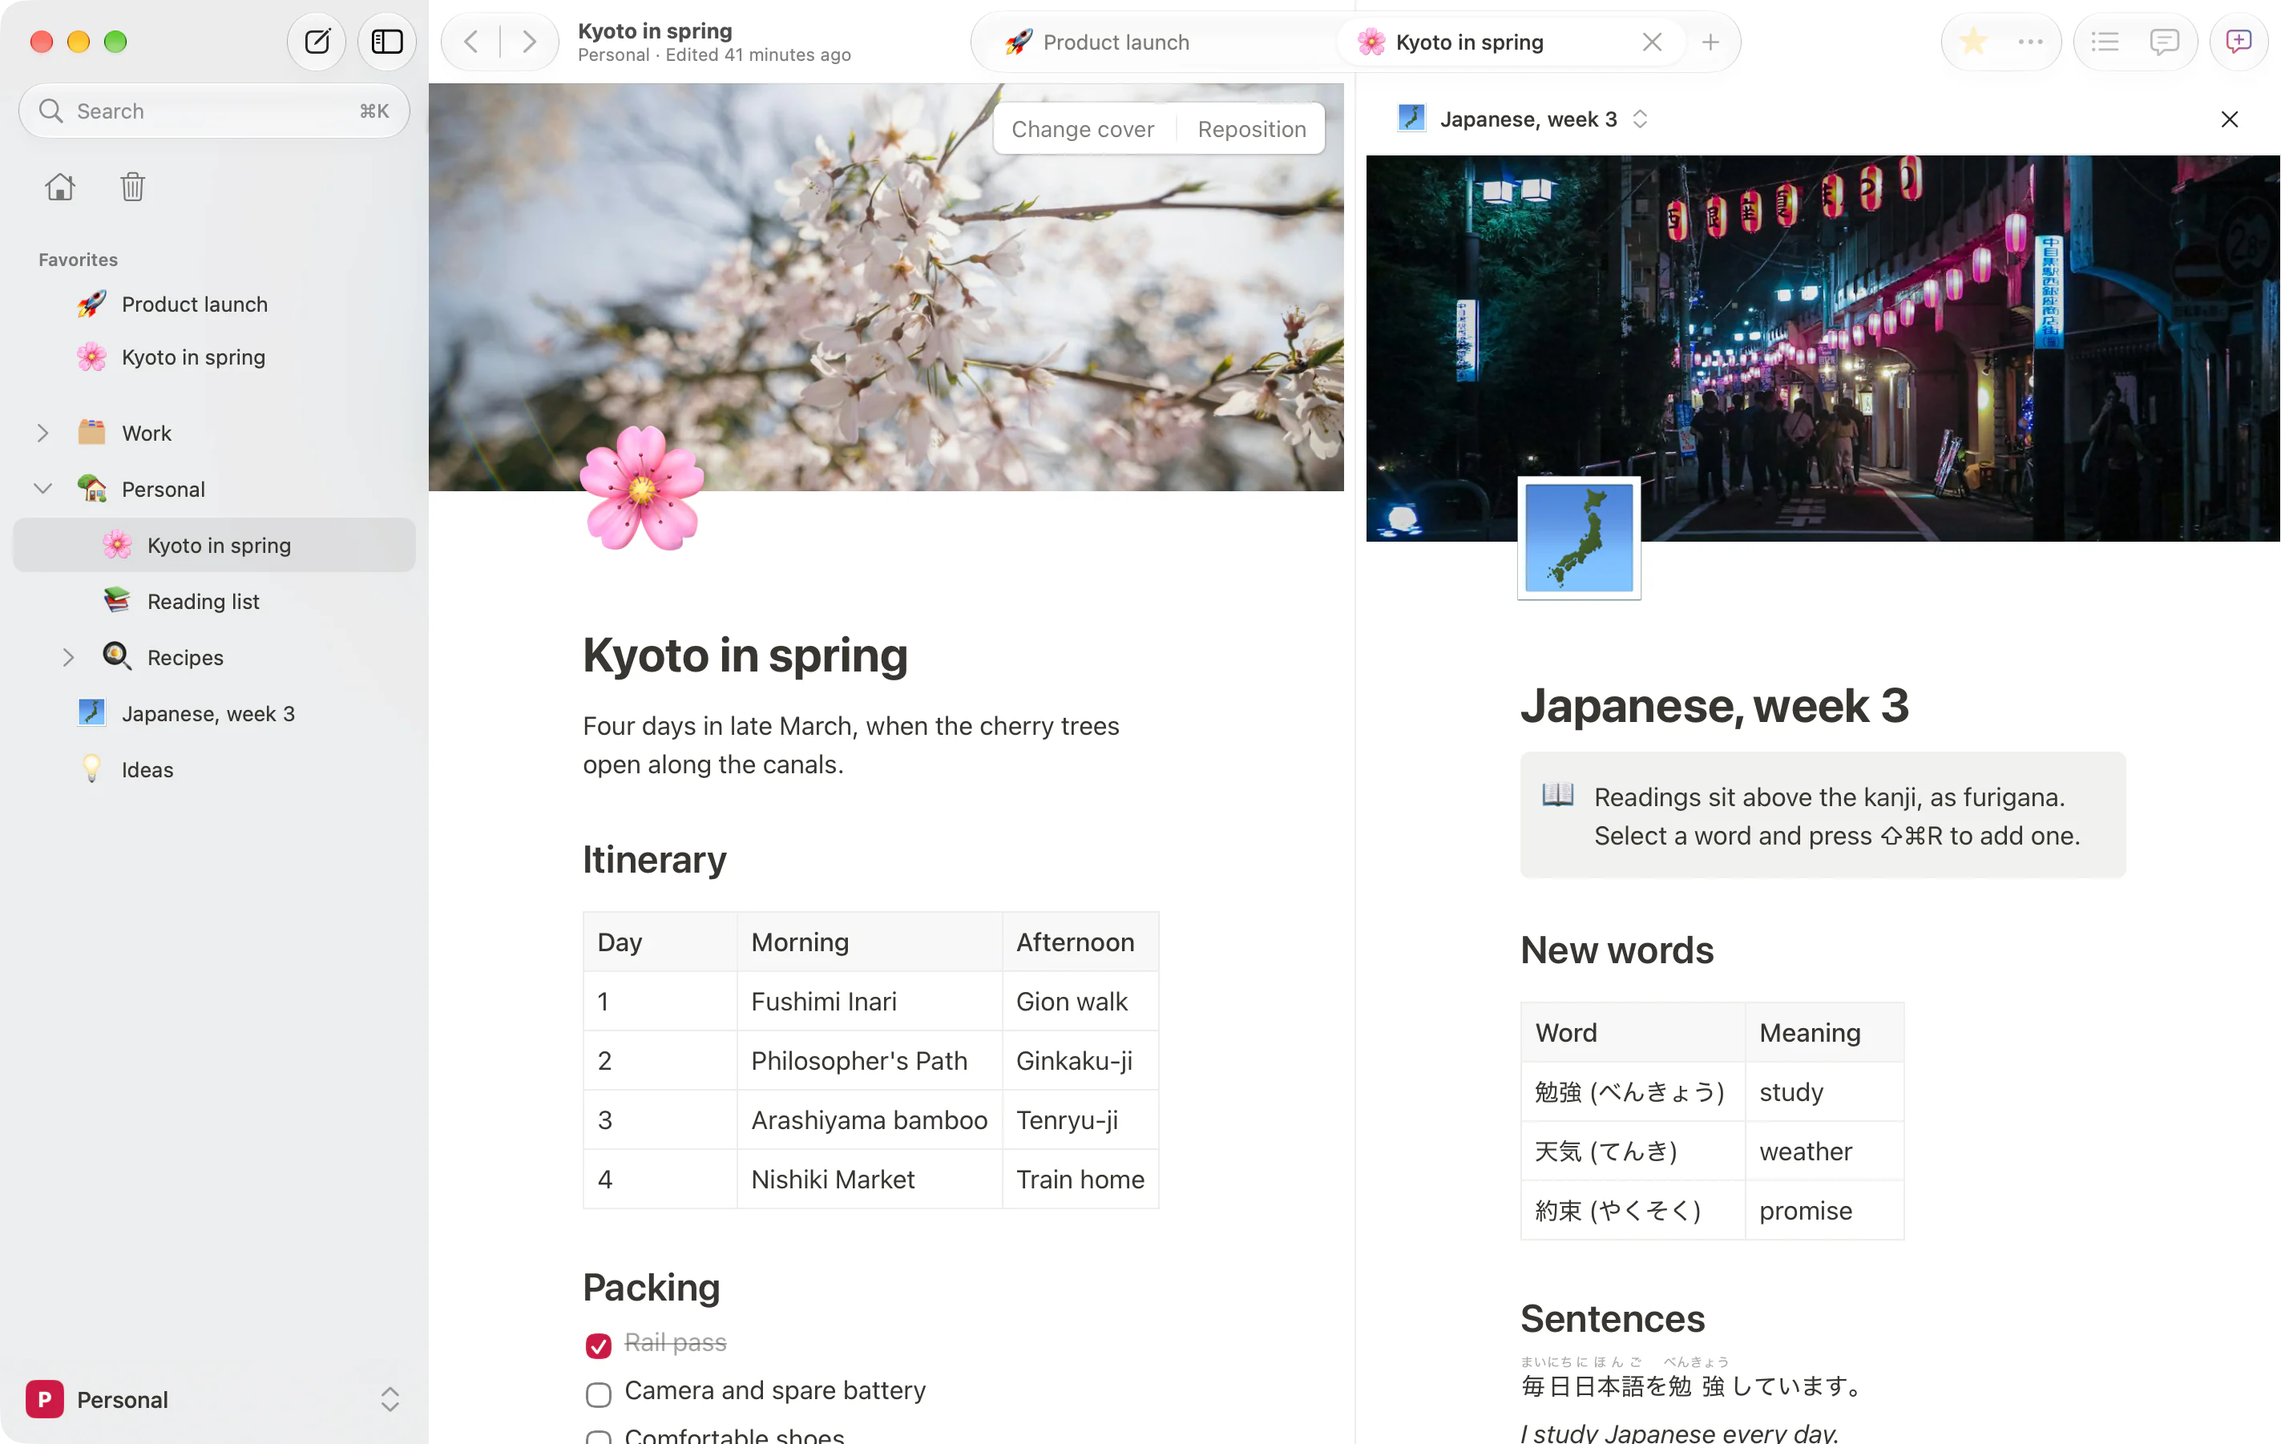
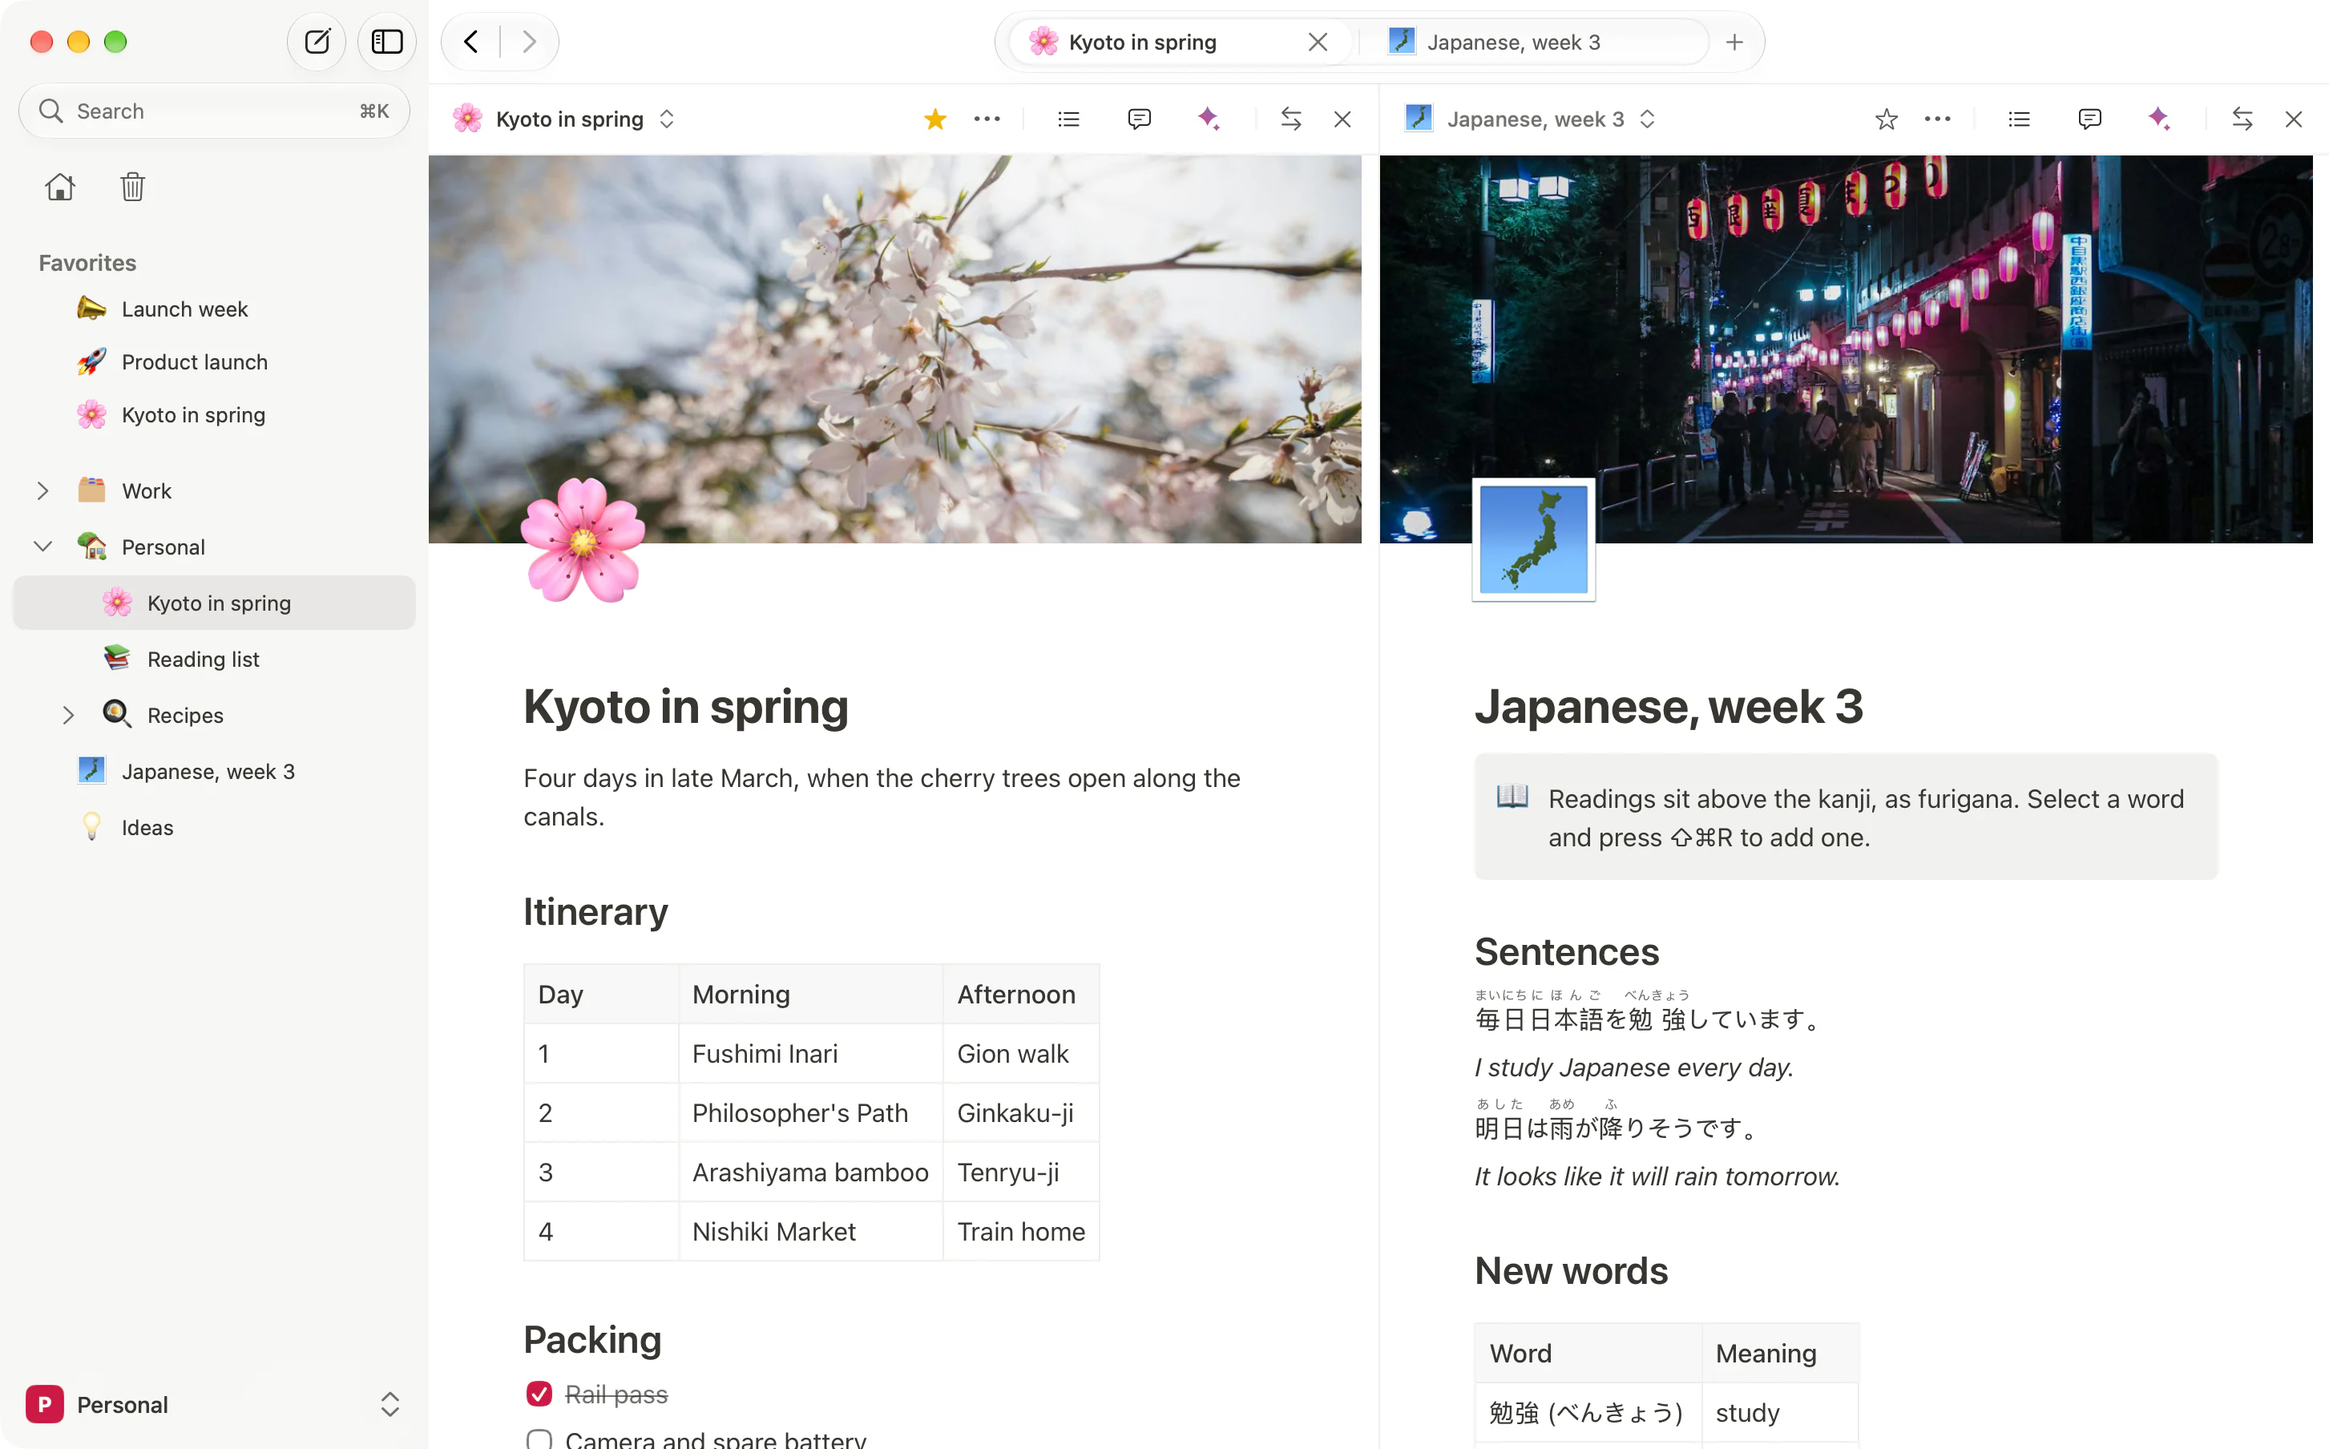
Website: split view opens as the page scrolls — a page dragged from the sidebar to the window's edge, its place outlined, its pane sliding in; Duo and Split share scrollScene

diff --git a/apps/website/src/components/split-view.tsx b/apps/website/src/components/split-view.tsx
@@ -1,37 +1,84 @@
 import { row } from './row'
-import { Shot } from './shot'
+import { scrollScene } from './scroll-scene'
 
-/** Split view: two pages side by side, shown on the Mac. */
+/**
+ * Split view: two pages side by side, shown on the Mac — and how it is opened, as the page scrolls: a page dragged
+ * from the sidebar to the window's right edge, the place it will take outlined, its pane sliding in from that edge,
+ * then the page beside it settling into its half. Two captures of the same window (`mac-split-solo`, `mac-split`);
+ * `--p` from the scroll (`scrollScene`). Still — no script, Reduce Motion — it is the split window.
+ */
 export function SplitView() {
+  scrollScene('#split-view', '#split-view .split-stage')
+
   return (
-    <section id="split-view" class={`${row} grid-cols-1 lg:grid-cols-12`}>
-      <div class="cell bg-yellow flex flex-col justify-between gap-10 p-8 md:p-12 lg:col-span-4">
-        <h2 class="expanded text-[clamp(1.875rem,3.4vw,3rem)] leading-[1.05] font-[850] tracking-[-0.02em]">
-          Two pages side by side.
-        </h2>
-        <div class="space-y-4 text-lg leading-relaxed">
-          <p>
-            Drag a page from the sidebar to the edge of the window and it opens beside the one you
-            are writing in. Each side has its own editor.
-          </p>
-          <p>
-            Keep notes on one side and the source on the other, or a PDF from the page. Open the
-            same page twice to write in one half and read in the other.
-          </p>
+    <section id="split-view" class={`${row} split-scene grid-cols-1 lg:grid-cols-12`}>
+      <div class="cell bg-yellow split-text lg:col-span-4">
+        <div class="split-sticky flex flex-col justify-between gap-10 p-8 md:p-12">
+          <h2 class="expanded text-[clamp(1.875rem,3.4vw,3rem)] leading-[1.05] font-[850] tracking-[-0.02em]">
+            Two pages side by side.
+          </h2>
+          <div class="space-y-4 text-lg leading-relaxed">
+            <p>
+              Drag a page from the sidebar to the edge of the window and it opens beside the one you
+              are writing in. Each side has its own editor.
+            </p>
+            <p>
+              Keep notes on one side and the source on the other, or a PDF from the page. Open the
+              same page twice to write in one half and read in the other.
+            </p>
+          </div>
         </div>
       </div>
-      <figure class="cell m-0 flex flex-col gap-5 p-6 md:p-10 lg:col-span-8">
-        <Shot
-          name="mac-split"
-          alt="Hikki on Mac in split view: a page about a trip to Kyoto beside a Japanese lesson with furigana."
-          width={2846}
-          height={1802}
-          class="w-full rounded-[12px]"
-        />
-        <figcaption class="text-caption text-muted">
-          <strong class="text-ink">Split view on Mac.</strong> On iPad too.
-        </figcaption>
+      <figure class="cell split-figure m-0 lg:col-span-8">
+        <div class="split-sticky flex flex-col justify-center gap-5 p-6 md:p-10">
+          <div
+            class="split-stage"
+            data-still
+            role="img"
+            aria-label="Hikki on Mac: “Japanese, week 3” dragged from the sidebar to the window's right edge opens beside a page about a trip to Kyoto, in split view."
+          >
+            <Capture name="mac-split-solo" class="split-solo" />
+            <span class="split-zone" />
+            <div class="split-pane">
+              <Capture name="mac-split" />
+            </div>
+            <div class="split-final">
+              <Capture name="mac-split" />
+            </div>
+            <span class="split-chip">
+              <span aria-hidden="true">🗾</span> Japanese, week 3
+            </span>
+          </div>
+          <figcaption class="text-caption text-muted">
+            <strong class="text-ink">Split view on Mac.</strong> On iPad too.
+          </figcaption>
+        </div>
       </figure>
     </section>
+  )
+}
+
+/** One capture of the window in both appearances; the theme shows one. */
+function Capture(props: { name: string; class?: string }) {
+  const cls = `split-img ${props.class ?? ''}`
+  return (
+    <>
+      <img
+        src={`/shots/${props.name}.webp`}
+        alt=""
+        width={2906}
+        height={1808}
+        loading="lazy"
+        class={`${cls} only-light`}
+      />
+      <img
+        src={`/shots/${props.name}-dark.webp`}
+        alt=""
+        width={2906}
+        height={1808}
+        loading="lazy"
+        class={`${cls} only-dark`}
+      />
+    </>
   )
 }

diff --git a/apps/website/src/styles.css b/apps/website/src/styles.css
@@ -1314,6 +1314,102 @@
     width: 72%;
   }
 
+  /* Split view opening as the page scrolls (SplitView): `--p` 0 is one page, 1 two. The section is the scroll it
+     takes; both cells' content stays in view meanwhile. Positions are fractions of the capture: the sidebar's
+     "Japanese, week 3" row, the split's hairline at 59.19 %, the window toolbar's foot at 6 %. */
+  .split-scene[data-moving] .split-figure {
+    height: 240vh;
+  }
+  .split-scene[data-moving] .split-figure > .split-sticky {
+    position: sticky;
+    top: 0;
+    min-height: 100svh;
+  }
+  @media (width >= 64rem) {
+    .split-scene[data-moving] .split-text > .split-sticky {
+      position: sticky;
+      top: 0;
+      min-height: 100svh;
+    }
+  }
+  .split-stage {
+    --p: 1;
+    /* The phases: the drag, the outline, the pane sliding in, the page beside it settling. */
+    --drag: clamp(0, var(--p) / 0.35, 1);
+    --zone: calc(clamp(0, (var(--p) - 0.27) / 0.08, 1) * (1 - clamp(0, (var(--p) - 0.6) / 0.1, 1)));
+    --slide: clamp(0, (var(--p) - 0.35) / 0.35, 1);
+    --settle: clamp(0, (var(--p) - 0.76) / 0.07, 1);
+    position: relative;
+    overflow: hidden;
+    container-type: inline-size;
+    border: 4px solid var(--color-frame);
+    border-radius: 12px;
+    background: var(--color-paper);
+  }
+  .split-img {
+    display: block;
+    width: 100%;
+    height: auto;
+  }
+  .split-img.only-dark {
+    display: none;
+  }
+  :root[data-theme='dark'] .split-img.only-dark {
+    display: block;
+  }
+  :root[data-theme='dark'] .split-img.only-light {
+    display: none;
+  }
+  .split-pane,
+  .split-final {
+    position: absolute;
+    inset: 0;
+  }
+  /* The trailing pane alone, eased in from beyond the window's right edge (its own width away). */
+  .split-pane {
+    --s: calc(var(--slide) * var(--slide) * (3 - 2 * var(--slide)));
+    clip-path: inset(6% 0 0 59.19%);
+    transform: translateX(calc((1 - var(--s)) * 40.81%));
+    opacity: clamp(0, var(--slide) * 8, 1);
+  }
+  /* The whole split window: the leading page taking its half. */
+  .split-final {
+    opacity: var(--settle);
+  }
+  .split-zone {
+    position: absolute;
+    top: 6%;
+    right: 0.6%;
+    bottom: 1%;
+    left: 59.6%;
+    border: 0.3cqi solid var(--color-red);
+    border-radius: 0.6cqi;
+    background: color-mix(in srgb, var(--color-red) 8%, transparent);
+    opacity: var(--zone);
+  }
+  /* The page being dragged, as macOS draws a dragged row. */
+  .split-chip {
+    --d: calc(var(--drag) * var(--drag) * (3 - 2 * var(--drag)));
+    position: absolute;
+    left: calc(3% + var(--d) * 72%);
+    top: calc(51% - var(--d) * 10%);
+    display: flex;
+    align-items: center;
+    gap: 0.5em;
+    padding: 0.45em 0.8em;
+    border-radius: 0.5em;
+    background: rgb(255 255 255 / 0.94);
+    box-shadow:
+      0 0 0 1px rgb(0 0 0 / 0.08),
+      0 0.4em 1.2em rgb(0 0 0 / 0.18);
+    color: #1d1d1f;
+    font-size: 1.6cqi;
+    font-weight: 600;
+    white-space: nowrap;
+    opacity: calc(clamp(0, var(--p) / 0.04, 1) * (1 - clamp(0, (var(--p) - 0.36) / 0.06, 1)));
+    pointer-events: none;
+  }
+
   .button {
     display: inline-flex;
     align-items: center;

diff --git a/apps/website/src/components/duo-unfold.tsx b/apps/website/src/components/duo-unfold.tsx
@@ -1,52 +1,16 @@
-import { onCleanup, onMount } from 'solid-js'
-
 import { row } from './row'
+import { scrollScene } from './scroll-scene'
 
 /**
  * iPhone Duo opening as the page scrolls, like a book: folded, the outer screen (the iPhone layout); open, the inner
  * screen on its side (the iPad layout), twice the outer screen's size, its right half swinging out on the hinge in the
- * middle. The track's scroll sets `--p` (0 folded … 1 open) on the stage, and CSS turns that into the fold.
+ * middle — `--p` 0 folded … 1 open, from the scroll (`scrollScene`).
  *
  * Without the script, or with Reduce Motion, nothing moves: the stage shows the open phone with the folded one
  * beside it (`data-still`).
  */
 export function DuoUnfold() {
-  onMount(() => {
-    const track = document.querySelector<HTMLElement>('#duo .duo-track')
-    const stage = document.querySelector<HTMLElement>('#duo .duo-stage')
-    if (!track || !stage) return
-    const still = window.matchMedia('(prefers-reduced-motion: reduce)')
-    let frame = 0
-    const measure = () => {
-      frame = 0
-      const box = track.getBoundingClientRect()
-      const run = box.height - window.innerHeight
-      const raw = run > 0 ? -box.top / run : 1
-      // Held folded for the first stretch and open for the last, so each state can be looked at.
-      const p = Math.min(1, Math.max(0, (raw - 0.12) / 0.7))
-      stage.style.setProperty('--p', p.toFixed(4))
-    }
-    const schedule = () => {
-      if (!frame) frame = requestAnimationFrame(measure)
-    }
-    const apply = () => {
-      const moving = !still.matches
-      track.toggleAttribute('data-moving', moving)
-      stage.toggleAttribute('data-still', !moving)
-      if (moving) measure()
-      else stage.style.removeProperty('--p')
-    }
-    apply()
-    window.addEventListener('scroll', schedule, { passive: true })
-    window.addEventListener('resize', schedule)
-    still.addEventListener('change', apply)
-    onCleanup(() => {
-      cancelAnimationFrame(frame)
-      window.removeEventListener('scroll', schedule)
-      window.removeEventListener('resize', schedule)
-      still.removeEventListener('change', apply)
-    })
-  })
+  scrollScene('#duo .duo-track', '#duo .duo-stage')
 
   return (
     <section id="duo" class={`${row} grid-cols-1`}>

diff --git a/apps/website/src/components/scroll-scene.ts b/apps/website/src/components/scroll-scene.ts
@@ -1,0 +1,46 @@
+import { onCleanup, onMount } from 'solid-js'
+
+/**
+ * A scene that plays as the page scrolls: the track's scroll sets `--p` (0 … 1) on the stage, and CSS turns that into
+ * the motion. The first stretch holds the start and the last the end, so each can be looked at.
+ *
+ * With Reduce Motion nothing moves: the track loses `data-moving` (no extra scroll) and the stage gets `data-still`,
+ * which shows the end. Without the script the markup's own `data-still` does the same.
+ */
+export function scrollScene(trackSelector: string, stageSelector: string) {
+  onMount(() => {
+    const track = document.querySelector<HTMLElement>(trackSelector)
+    const stage = document.querySelector<HTMLElement>(stageSelector)
+    if (!track || !stage) return
+    const still = window.matchMedia('(prefers-reduced-motion: reduce)')
+    let frame = 0
+    const measure = () => {
+      frame = 0
+      const box = track.getBoundingClientRect()
+      const run = box.height - window.innerHeight
+      const raw = run > 0 ? -box.top / run : 1
+      const p = Math.min(1, Math.max(0, (raw - 0.12) / 0.7))
+      stage.style.setProperty('--p', p.toFixed(4))
+    }
+    const schedule = () => {
+      if (!frame) frame = requestAnimationFrame(measure)
+    }
+    const apply = () => {
+      const moving = !still.matches
+      track.toggleAttribute('data-moving', moving)
+      stage.toggleAttribute('data-still', !moving)
+      if (moving) measure()
+      else stage.style.removeProperty('--p')
+    }
+    apply()
+    window.addEventListener('scroll', schedule, { passive: true })
+    window.addEventListener('resize', schedule)
+    still.addEventListener('change', apply)
+    onCleanup(() => {
+      cancelAnimationFrame(frame)
+      window.removeEventListener('scroll', schedule)
+      window.removeEventListener('resize', schedule)
+      still.removeEventListener('change', apply)
+    })
+  })
+}

diff --git a/CLAUDE.md b/CLAUDE.md
@@ -188,9 +188,12 @@ apps/website/                      the site at hikki.yancey.app (TanStack Start 
                               own Mondrian palette — not the app's tokens): src/routes/, light/dark/system theme
                               (`data-theme`, THEME_SCRIPT in src/theme.ts runs before paint), screenshots in public/shots/ as WebP, each with a -dark twin (`Shot`), made by
                               `bun run shots <captures>` (sharp; crops in shots.json; public/og.jpg is the link-card JPEG);
-                              the iPhone Duo opens like a book as the page scrolls (src/components/duo-unfold.tsx: `--p`
-                              from the scroll, still under Reduce Motion) — its open screen (duo-open) is the Duo simulator's
-                              inner screen, `--display=3` once the device is unfolded by hand (simctl can't unfold it);
+                              scroll scenes (src/components/scroll-scene.ts: `--p` from the section's scroll, CSS does
+                              the motion, the end state still under Reduce Motion): the iPhone Duo opening like a book
+                              (duo-unfold.tsx; its open screen, duo-open, is the Duo simulator's inner screen, `--display=3`
+                              once the device is unfolded by hand — simctl can't unfold it) and split view opening from a
+                              page dragged to the window's edge (split-view.tsx: two captures of one window, mac-split-solo
+                              and mac-split, HIKKI_DEBUG_NAV + HIKKI_OPEN_SPLIT);
                               /p/<record>#<key> and /shared (src/routes/p.$id.tsx, shared.*) read published pages (see Publish link);
                               the download moment is src/components/store.tsx — until APP_STORE_URL in src/site.ts is
                               set, "Coming to the App Store" is a status line in the header and the foot offers a
